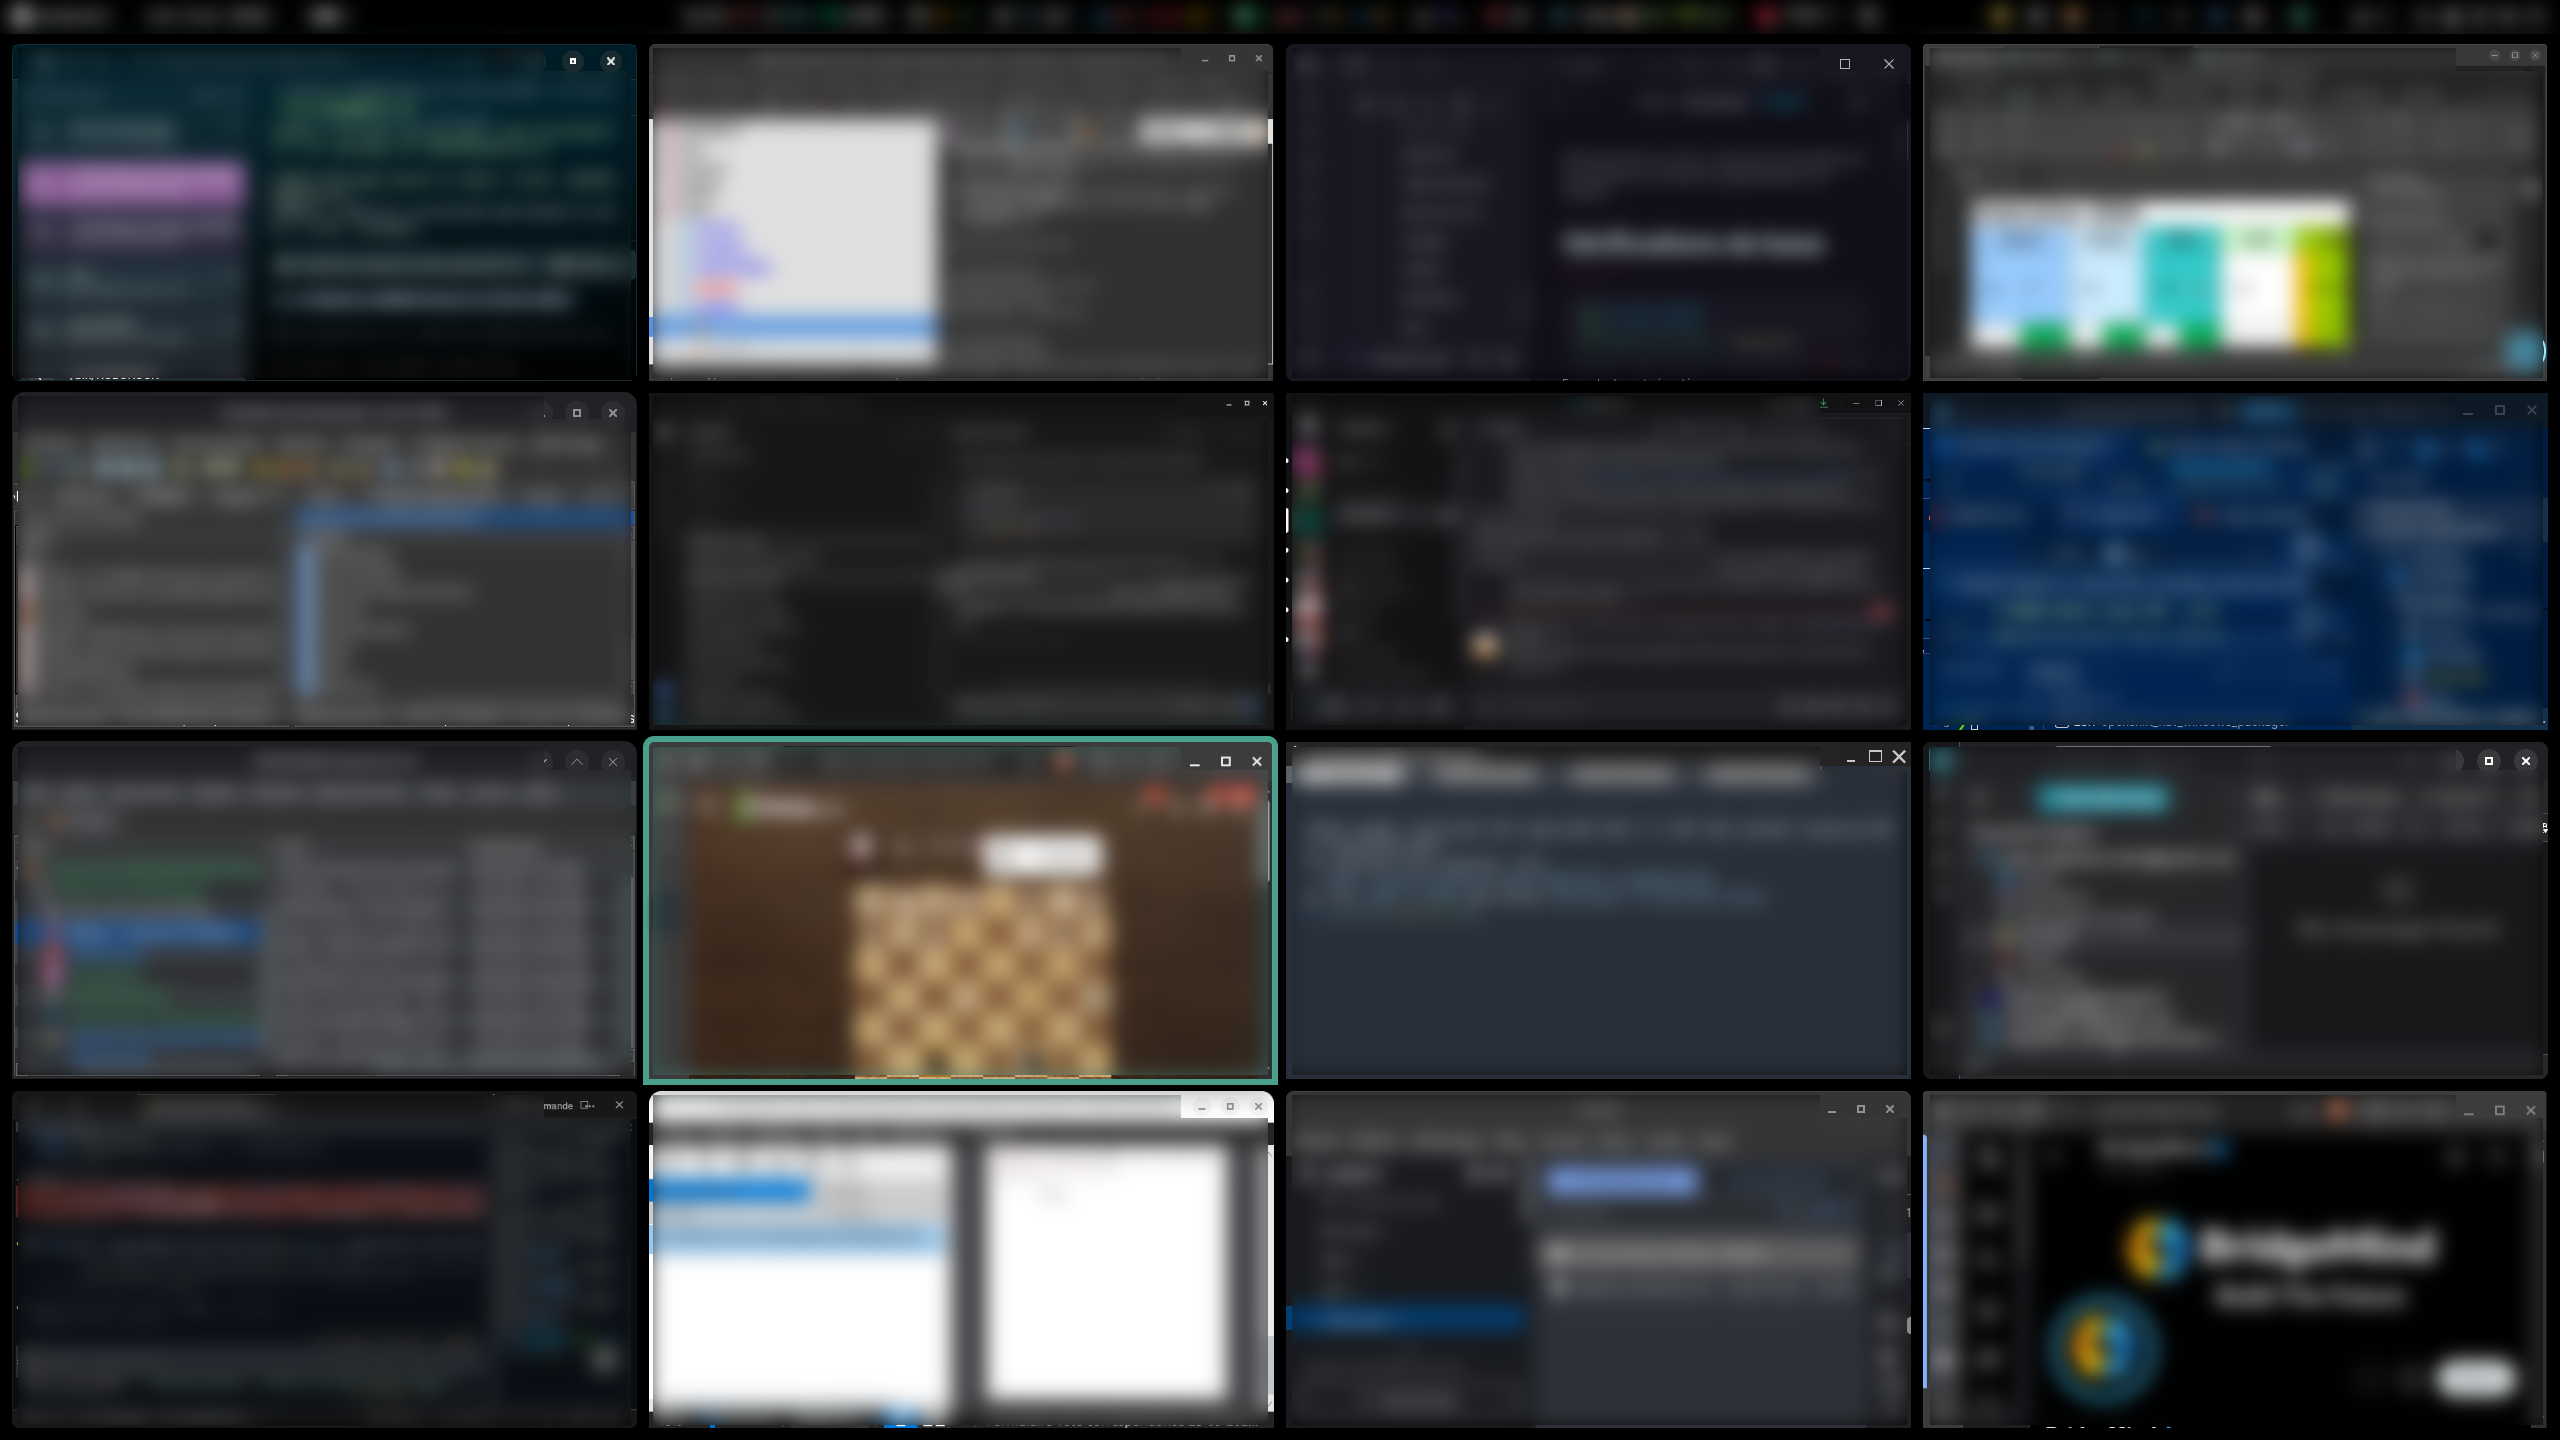
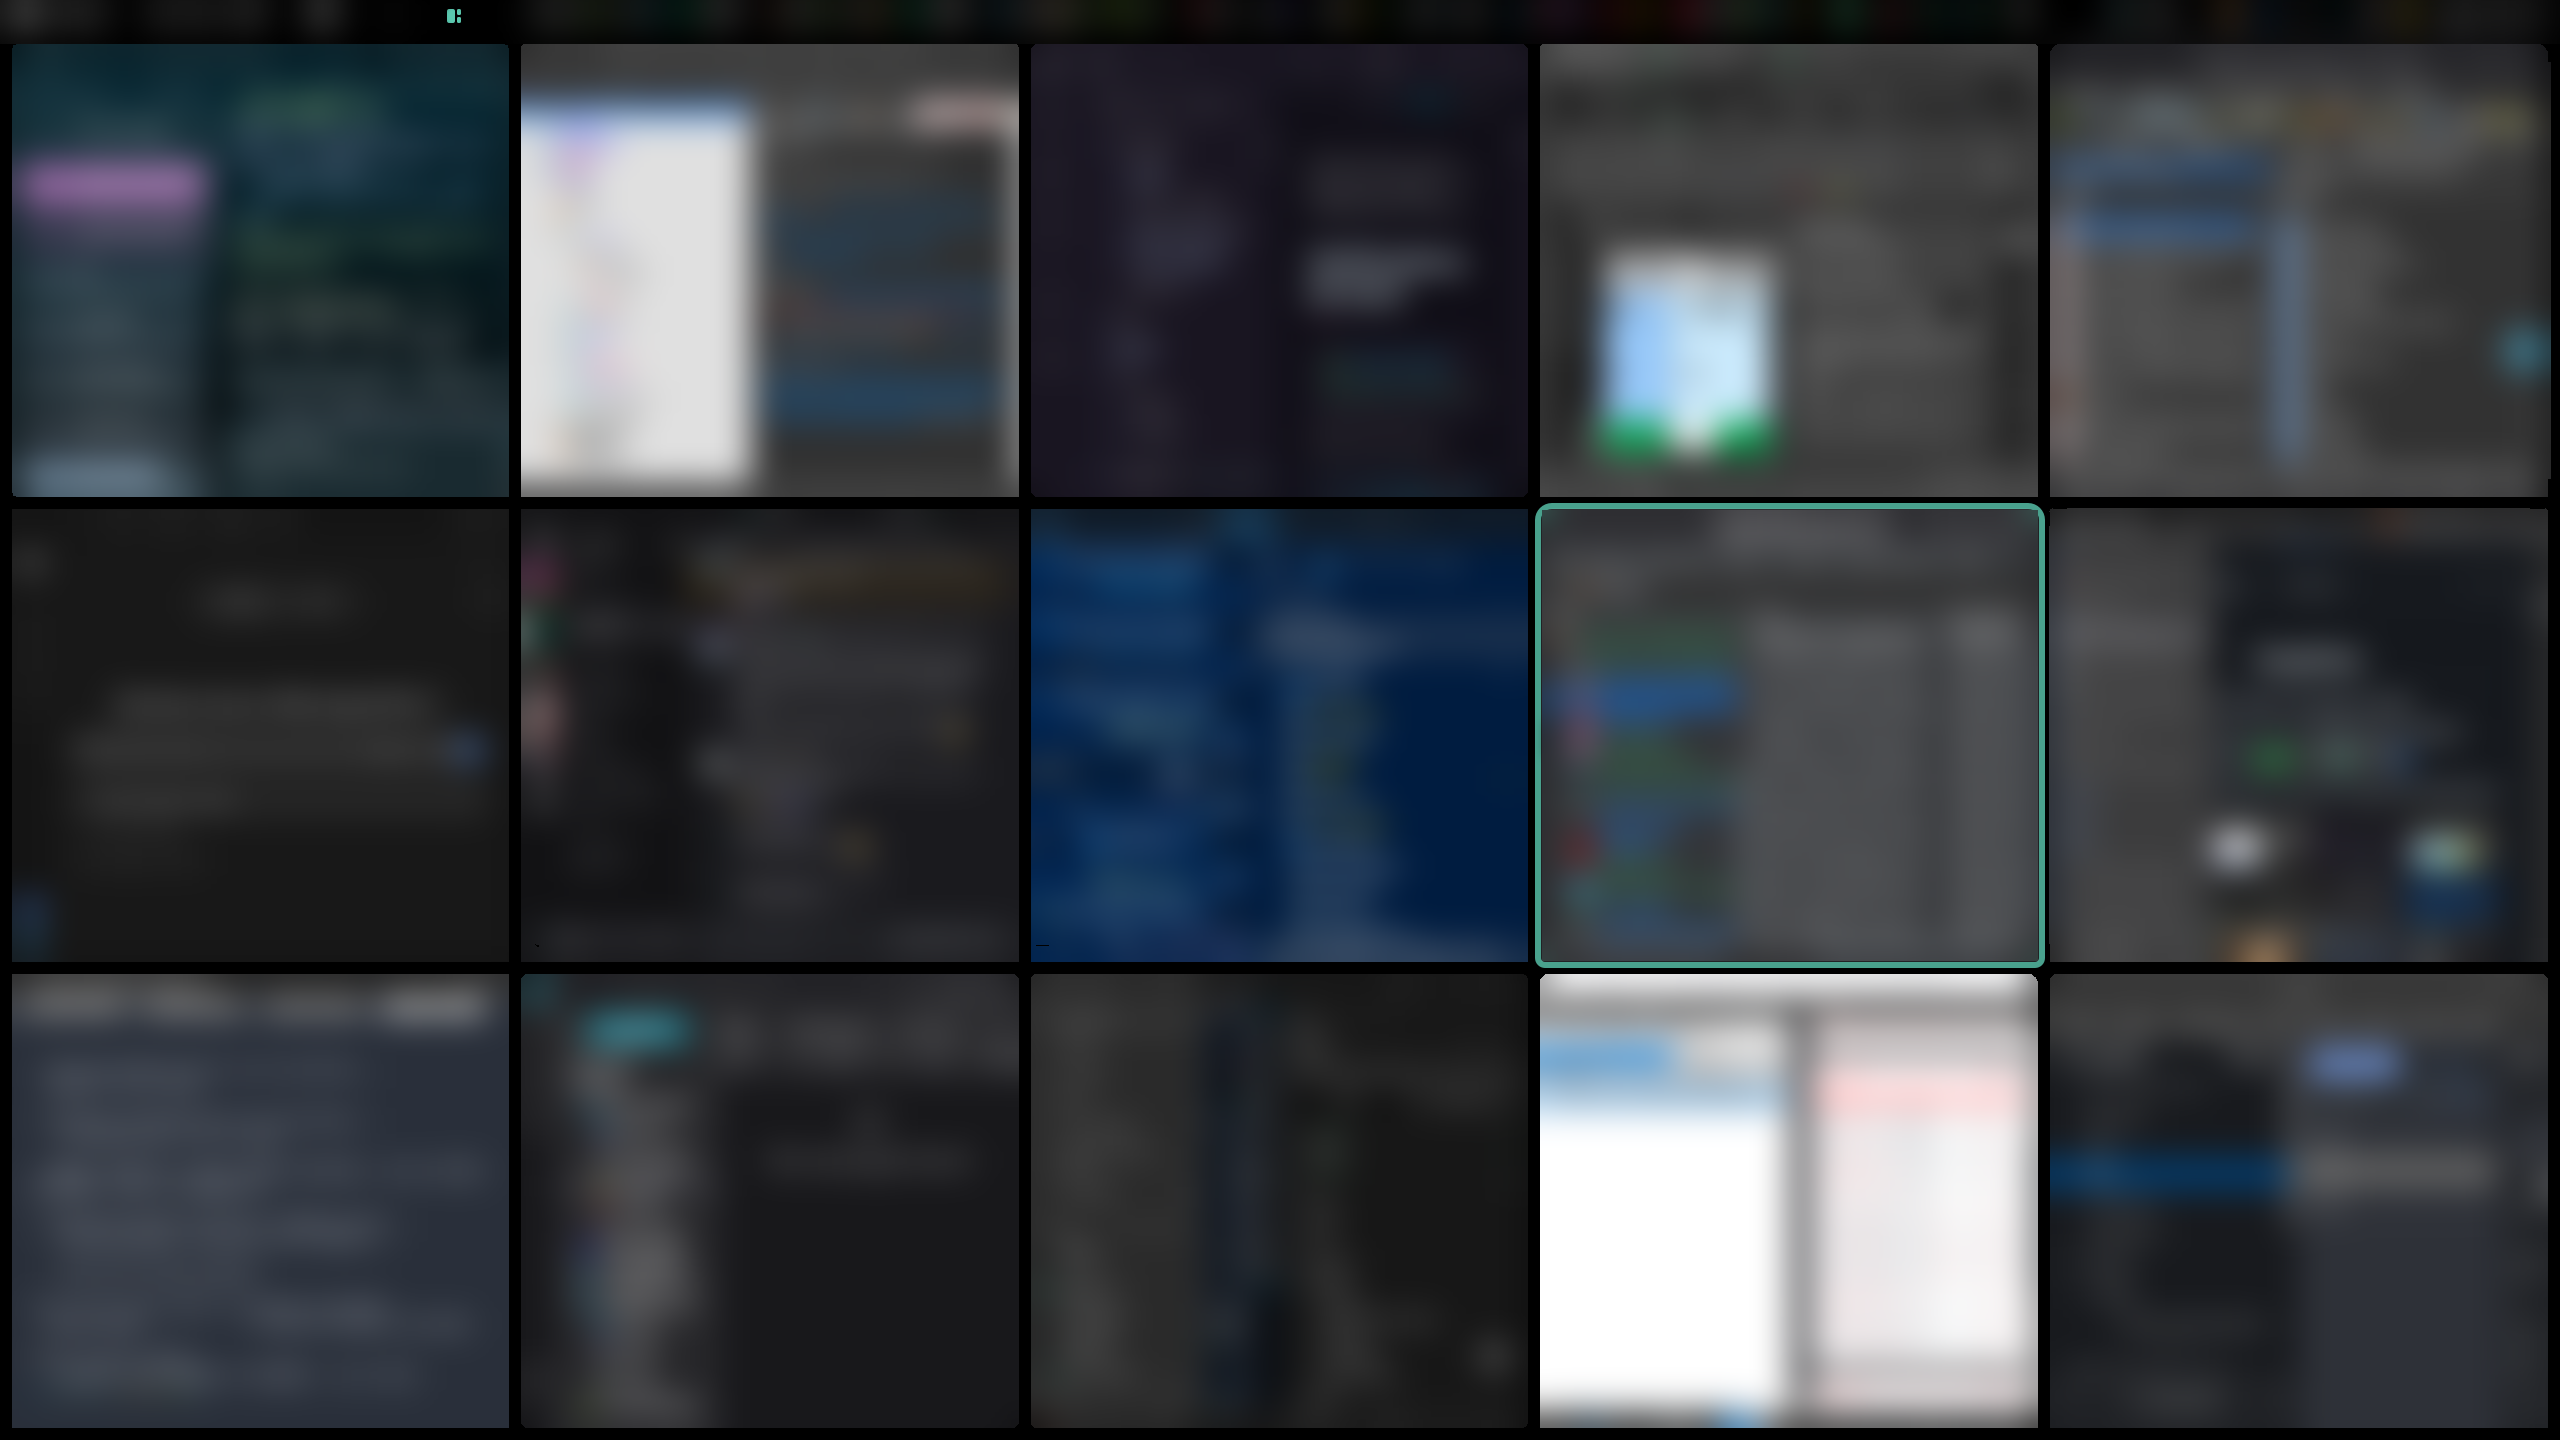
Replace README overview with a blurred capture of a real desktop
- Fifteen windows tiled in a 5×3 grid with the focused-window outline.
- Every window, the top bar and its icons are blurred; only the tile
  layout, gaps, focus outline and SnapTess indicator stay sharp.

diff --git a/README.md b/README.md
@@ -14,7 +14,7 @@ Automatic window tiling for **GNOME Shell 50 · Wayland**.
 
 </div>
 
-![SnapTess arranging sixteen real application windows in a tiled grid, with private content blurred](docs/snaptess-overview-blurred.png)
+![SnapTess arranging fifteen real application windows in a 5×3 grid with the focused-window outline, contents blurred](docs/snaptess-overview-blurred.png)
 
 SnapTess is a standalone GNOME Shell extension. It starts paused: enabling it does not rearrange your windows.
 
